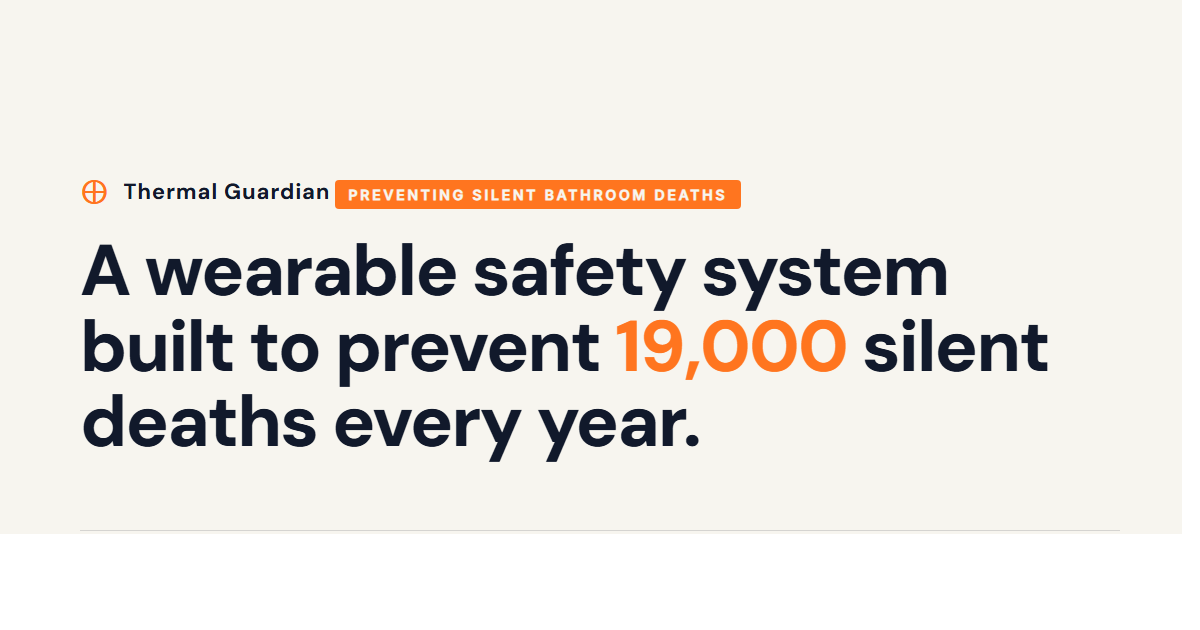
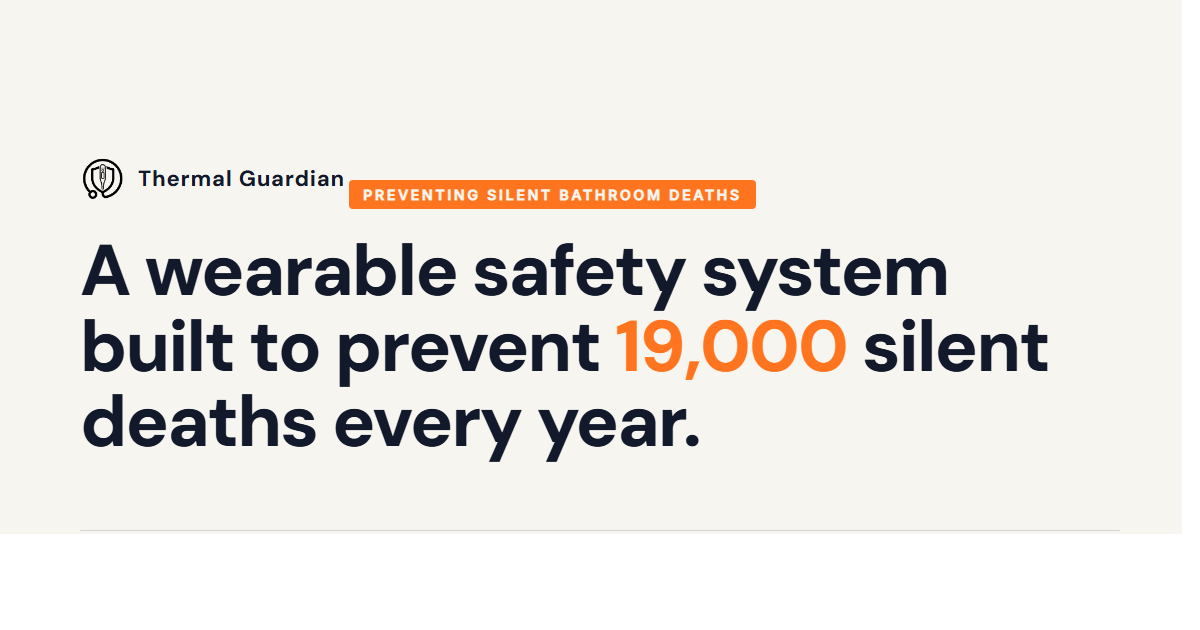
feat: real brand assets, device photo, IPX7 wording, team email
- Real Thermal Guardian logo (black header, white footer, PNG favicon)
- Device illustration added to How It Works as hardware-shot figure above flow diagram
- Main Contact CTA now uses kuas.thermalguardian@gmail.com
- Wearable label changed from "Waterproof" to "IPX7-rated" per user guidance
- OG image regenerated with real logo

Changed region(s): [[0.0617, 0.2413, 0.6475, 0.3317]]

diff --git a/index.html b/index.html
@@ -20,6 +20,7 @@
   <meta name="twitter:image" content="https://ken-toendan.github.io/thermalguardian_w/assets/social/og.png">
 
   <!-- Favicon -->
+  <link rel="icon" type="image/png" sizes="64x64" href="assets/brand/favicon.png">
   <link rel="icon" type="image/svg+xml" href="assets/brand/favicon.svg">
 
   <!-- Fonts -->
@@ -33,7 +34,7 @@
   <header class="site-header">
     <div class="container site-header__inner">
       <a href="#top" class="brand" aria-label="Thermal Guardian home">
-        <span class="brand__mark" aria-hidden="true">⊕</span>
+        <img class="brand__mark" src="assets/brand/logo.png" alt="" aria-hidden="true">
         <span class="brand__name">Thermal Guardian</span>
       </a>
 
@@ -146,6 +147,11 @@
           <p>Sensors watch the body and the room. A hub in the home interprets context. Caregivers get alerts — with a fallback to emergency services if nobody is reachable.</p>
         </div>
 
+        <figure class="hardware-shot">
+          <img src="assets/hardware/device.png" alt="The Thermal Guardian hardware: an orange wrist-worn wearable and two white IoT sensor nodes for the bathroom and changing room.">
+          <figcaption>The hardware — wrist wearable (IPX7) and two IoT sensor nodes.</figcaption>
+        </figure>
+
         <div class="diagram-wrap">
           <svg class="flow-diagram" viewBox="0 0 700 420" xmlns="http://www.w3.org/2000/svg" role="img" aria-label="System flow diagram: wearable and room sensors feed a local hub, which alerts the caregiver app, with a fallback to emergency services.">
             <defs>
@@ -160,7 +166,7 @@
             <!-- Node: Wearable -->
             <g transform="translate(40, 40)">
               <rect width="180" height="72" rx="10" fill="#f7f5ef" stroke="#11192b" stroke-width="1.5"/>
-              <text x="90" y="32" text-anchor="middle" font-family="DM Sans, sans-serif" font-size="14" font-weight="700" fill="#11192b">Waterproof wearable</text>
+              <text x="90" y="32" text-anchor="middle" font-family="DM Sans, sans-serif" font-size="14" font-weight="700" fill="#11192b">IPX7-rated wearable</text>
               <text x="90" y="52" text-anchor="middle" font-family="Inter, sans-serif" font-size="11" fill="#11192b" fill-opacity="0.6">wrist-worn · ESP32-S3</text>
             </g>
 
@@ -294,7 +300,7 @@
         </div>
 
         <div class="contact__actions">
-          <a class="btn btn--primary" href="mailto:hello@thermalguardian.example">hello@thermalguardian.example</a>
+          <a class="btn btn--primary" href="mailto:kuas.thermalguardian@gmail.com">kuas.thermalguardian@gmail.com</a>
           <ul class="contact__meta">
             <li><span class="contact__label">Repository</span><a href="https://github.com/ken-toendan/thermalguardian_w" rel="noopener">github.com/ken-toendan/thermalguardian_w</a></li>
             <li><span class="contact__label">Based in</span>Tokyo, Japan</li>
@@ -307,7 +313,7 @@
   <footer class="site-footer">
     <div class="container site-footer__inner">
       <div class="brand">
-        <span class="brand__mark" aria-hidden="true">⊕</span>
+        <img class="brand__mark" src="assets/brand/logo-white.png" alt="" aria-hidden="true">
         <span class="brand__name">Thermal Guardian</span>
       </div>
       <p class="site-footer__legal">© 2026 Thermal Guardian · All rights reserved.</p>

diff --git a/styles.css b/styles.css
@@ -158,9 +158,10 @@ h1, h2, h3 {
 }
 
 .brand__mark {
-  color: var(--orange);
-  font-size: 18px;
-  line-height: 1;
+  width: 28px;
+  height: 28px;
+  object-fit: contain;
+  flex-shrink: 0;
 }
 
 .site-nav {
@@ -397,6 +398,25 @@ h1, h2, h3 {
 }
 
 /* ─── How it works ─────────────────────────────────── */
+.hardware-shot {
+  margin: 0 auto 40px auto;
+  max-width: 560px;
+  text-align: center;
+}
+
+.hardware-shot img {
+  width: 100%;
+  height: auto;
+  display: block;
+  margin: 0 auto 12px auto;
+}
+
+.hardware-shot figcaption {
+  font-size: 13px;
+  color: var(--ink-60);
+  font-style: italic;
+}
+
 .diagram-wrap {
   margin: 0 auto 48px auto;
   max-width: 820px;
@@ -619,7 +639,7 @@ h1, h2, h3 {
 }
 
 .site-footer .brand { color: var(--cream); }
-.site-footer .brand__mark { color: var(--orange); }
+.site-footer .brand__mark { width: 28px; height: 28px; }
 
 .site-footer__legal {
   font-size: 12px;

diff --git a/assets/social/og.html b/assets/social/og.html
@@ -25,7 +25,7 @@
       font-size: 22px;
       letter-spacing: 0.04em;
     }
-    .brand .mark { color: #ff751f; font-size: 28px; line-height: 1; }
+    .brand .mark { width: 44px; height: 44px; object-fit: contain; }
     .kicker {
       display: inline-block;
       margin-top: 100px;
@@ -65,7 +65,7 @@
 </head>
 <body>
   <div class="card">
-    <div class="brand"><span class="mark">⊕</span> Thermal Guardian</div>
+    <div class="brand"><img class="mark" src="../brand/logo.png" alt=""> Thermal Guardian</div>
     <span class="kicker">Preventing silent bathroom deaths</span>
     <h1>A wearable safety system built to prevent <span class="accent">19,000</span> silent deaths every year.</h1>
     <div class="footer-line">
